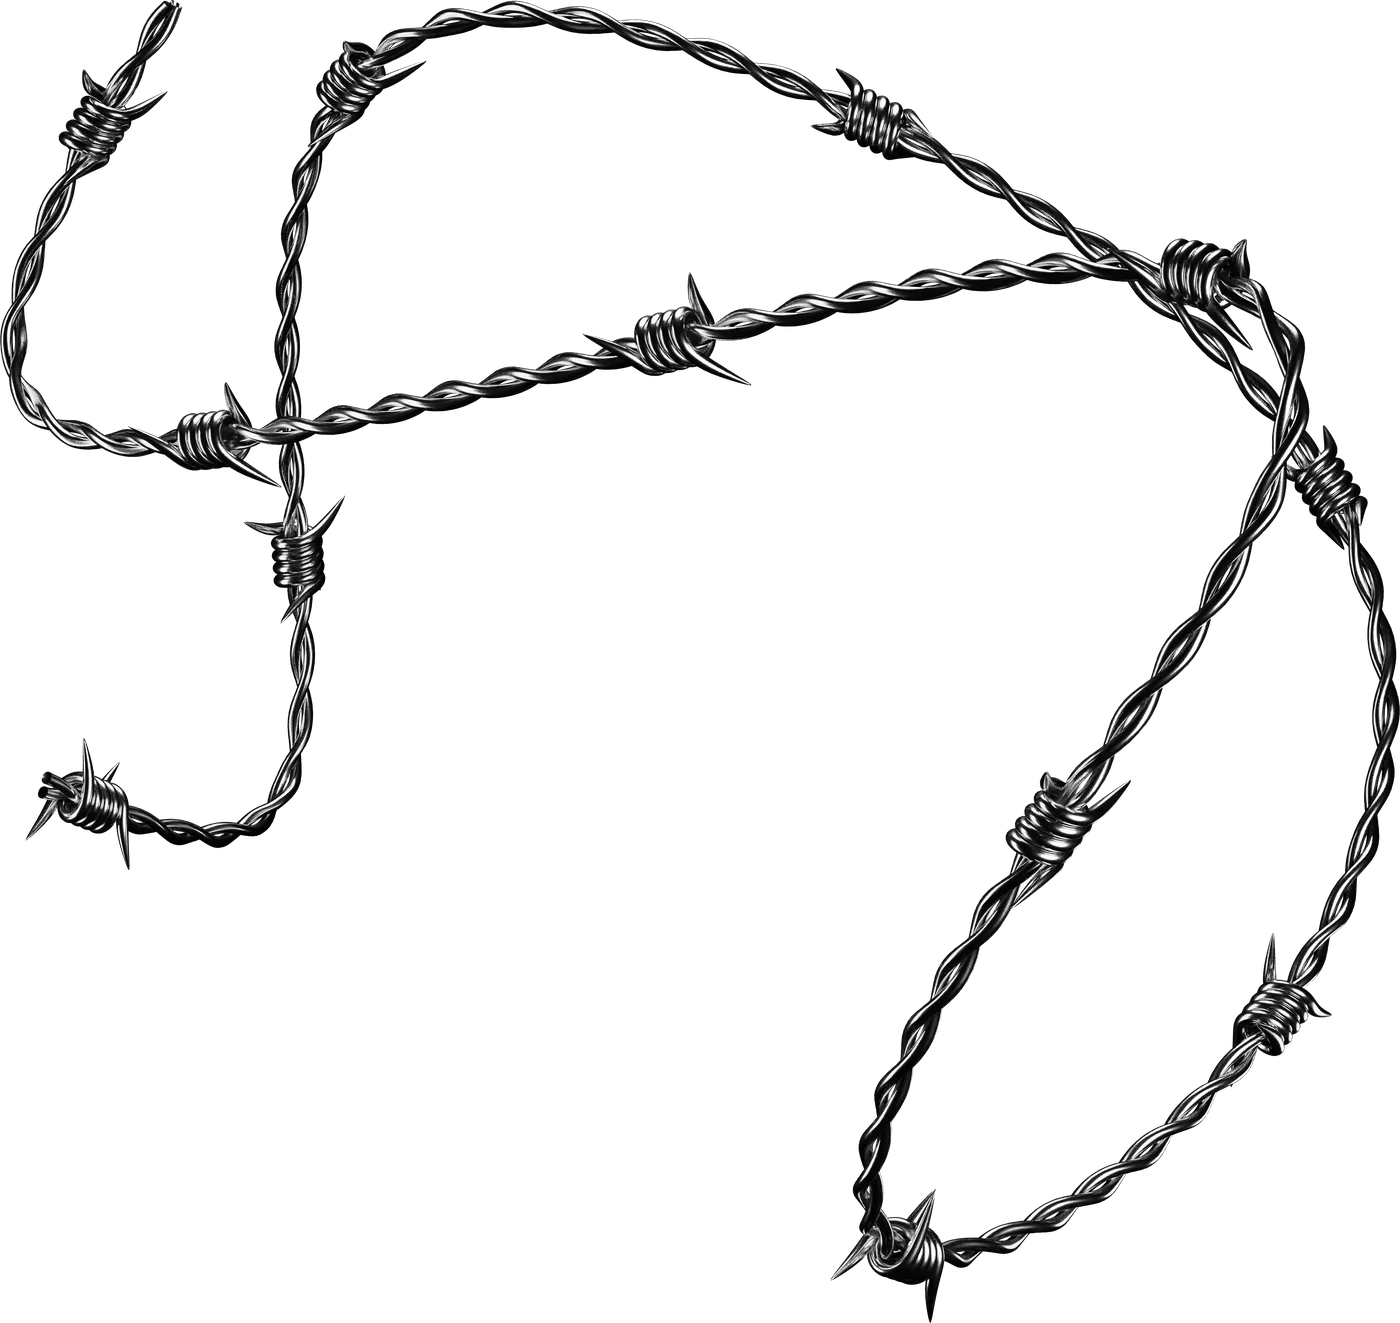
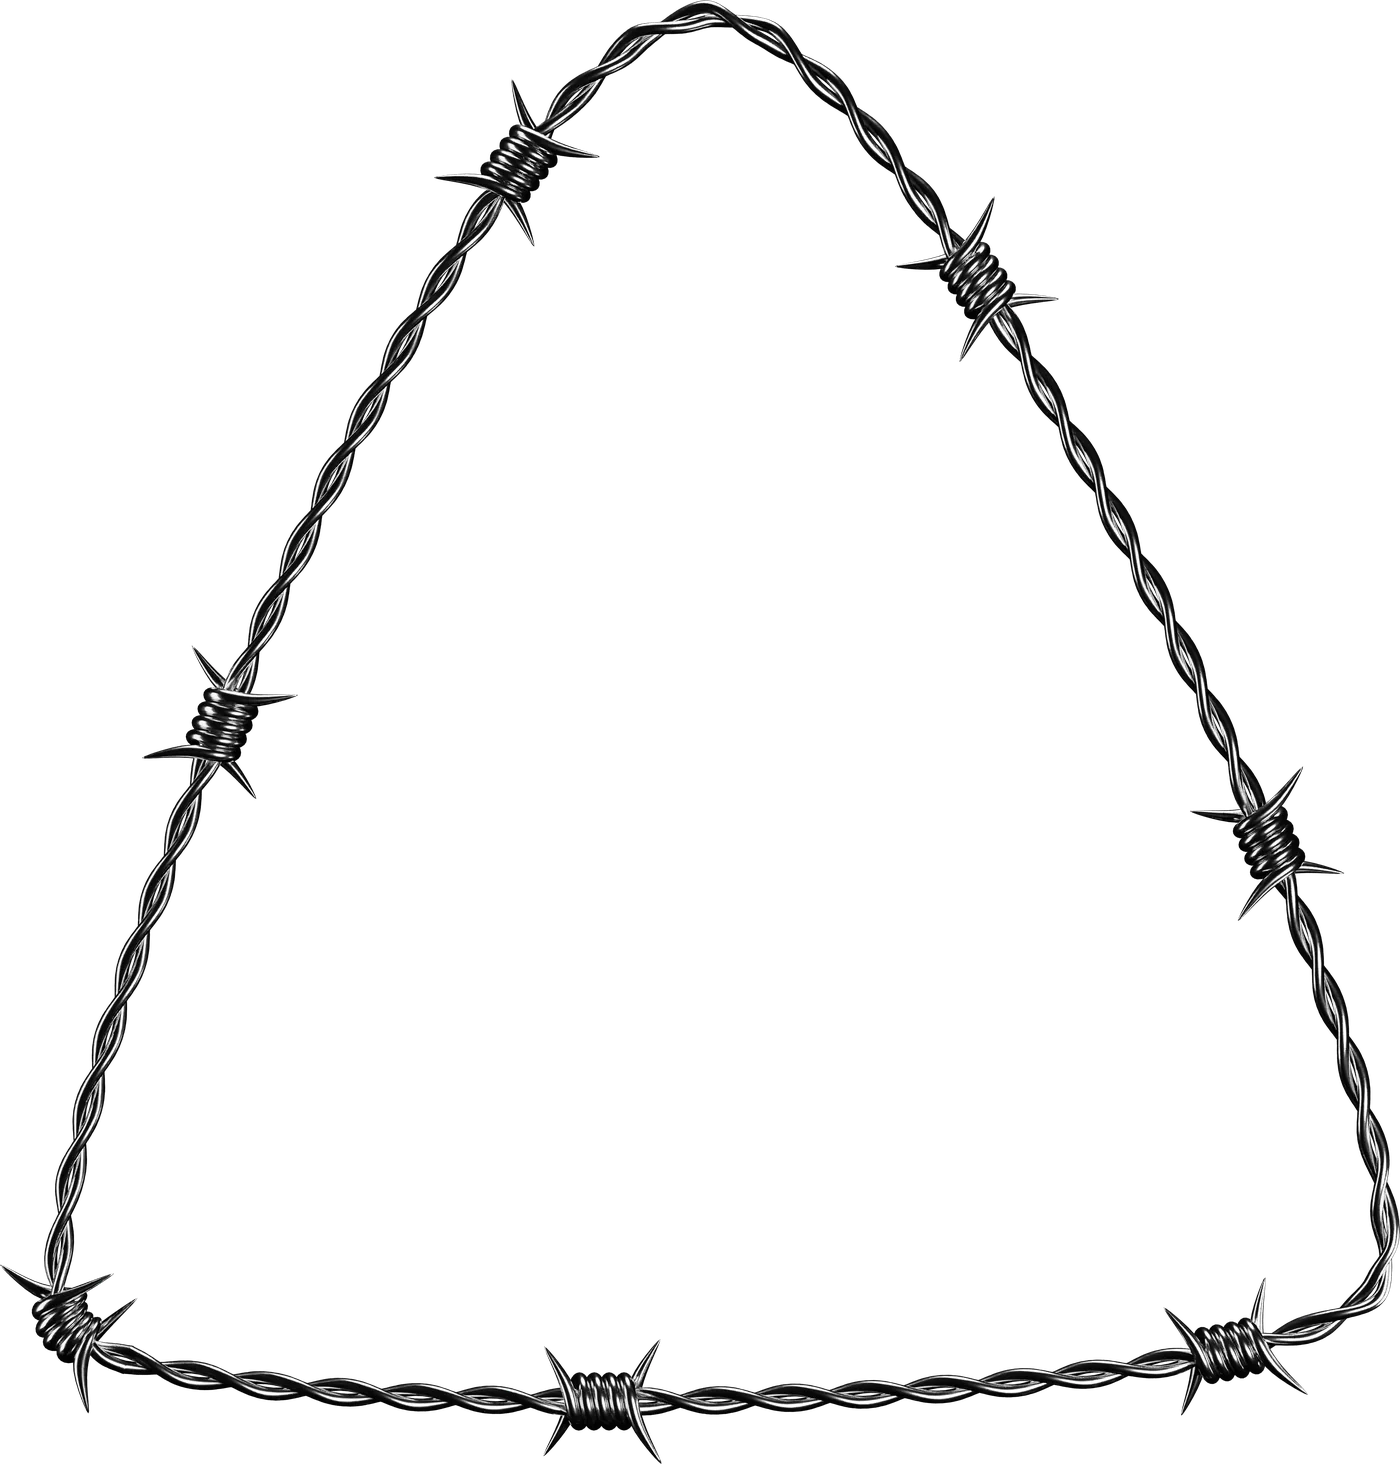
Púas más visibles y triángulo de alambre en Satanæ
Claude-Session: https://claude.ai/code/session_01ES3R4G9zcFNo4Ni6ocmtSn

Changed region(s): [[0.0, 0.0, 1.0, 1.0]]

diff --git a/css/style.css b/css/style.css
@@ -795,3 +795,12 @@ a { color: inherit; }
 .fl-top, .fl-tr { -webkit-mask-image: linear-gradient(to bottom, transparent 0, #000 35%); mask-image: linear-gradient(to bottom, transparent 0, #000 35%); }
 .fl-bl, .fl-br { -webkit-mask-image: linear-gradient(to top, transparent 0, #000 35%); mask-image: linear-gradient(to top, transparent 0, #000 35%); }
 .fl-r { -webkit-mask-image: linear-gradient(to left, transparent 0, #000 40%); mask-image: linear-gradient(to left, transparent 0, #000 40%); }
+/* ajuste: púas más presentes (sin tapar) y triángulo de alambre en Satanæ */
+.wire-sep img { opacity: .9; width: min(80vw, 1150px); filter: drop-shadow(0 4px 8px rgba(0,0,0,.5)); }
+@media (max-width: 720px) { .wire-sep img { width: 112vw; } }
+.wire-sat {
+  z-index: -1; top: 6%; bottom: auto; left: 18%; right: auto; width: 52%; opacity: .8;
+  transform: rotate(-6deg); filter: drop-shadow(0 8px 14px rgba(0,0,0,.6));
+  -webkit-mask-image: none; mask-image: none;
+}
+@media (max-width: 860px) { .wire-sat { left: 2%; top: 12%; width: 92%; bottom: auto; right: auto; } }

diff --git a/trama.html b/trama.html
@@ -6,7 +6,7 @@
 <title>TRAMA · Nicolás Torres</title>
 <meta name="description" content="TRAMA: identidad, campaña, Nyx en 3D y carta AR. Caso de estudio de Nicolás Torres (rayt0o).">
 <meta name="theme-color" content="#07070B">
-<link rel="stylesheet" href="css/style.css?v=202611241652">
+<link rel="stylesheet" href="css/style.css?v=202611241656">
 <link rel="icon" href="favicon.svg" type="image/svg+xml">
 <link rel="icon" href="favicon.ico" sizes="any">
 <link rel="apple-touch-icon" href="apple-touch-icon.png">
@@ -167,6 +167,6 @@
   <span>Bogotá ✦ Colombia</span>
 </footer>
 
-<script src="js/main.js?v=202611241652"></script>
+<script src="js/main.js?v=202611241656"></script>
 </body>
 </html>

diff --git a/index.html b/index.html
@@ -6,7 +6,7 @@
 <title>Nicolás Torres · rayt0o</title>
 <meta name="description" content="Portafolio de Nicolás Torres (rayt0o): branding, ilustración y 3D. Bogotá.">
 <meta name="theme-color" content="#07070B">
-<link rel="stylesheet" href="css/style.css?v=202611241652">
+<link rel="stylesheet" href="css/style.css?v=202611241656">
 <link rel="icon" href="favicon.svg" type="image/svg+xml">
 <link rel="icon" href="favicon.ico" sizes="any">
 <link rel="apple-touch-icon" href="apple-touch-icon.png">
@@ -329,6 +329,6 @@
   <span>Bogotá ✦ Colombia</span>
 </footer>
 
-<script src="js/main.js?v=202611241652"></script>
+<script src="js/main.js?v=202611241656"></script>
 </body>
 </html>
